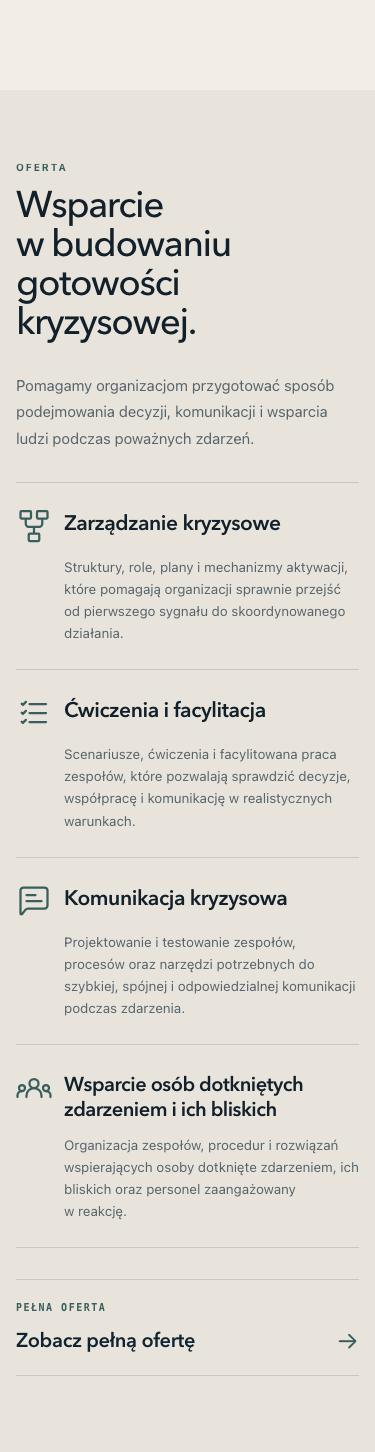
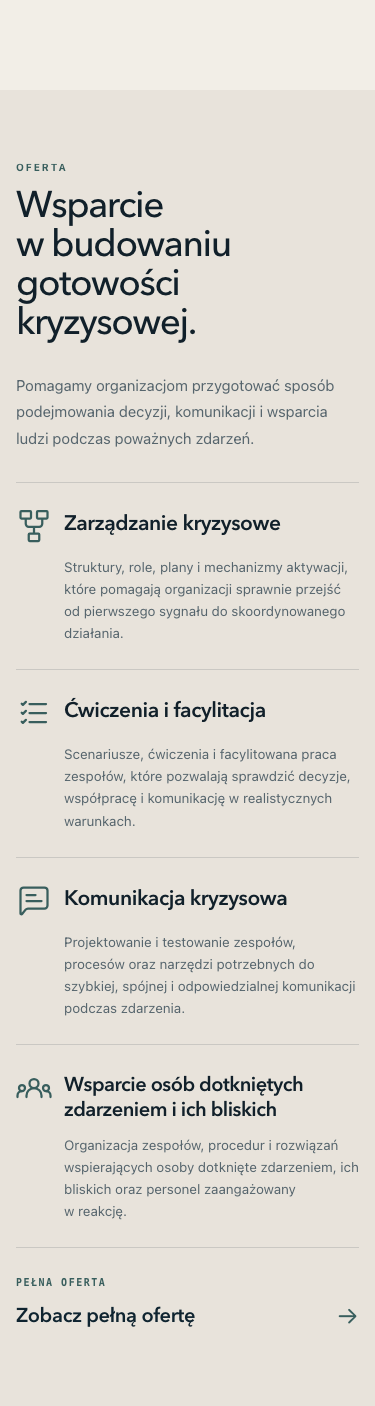
fix: refine homepage offer alignment and CTA spacing

diff --git a/src/styles/global.css b/src/styles/global.css
@@ -742,16 +742,20 @@ summary:focus-visible {
 /* Homepage — services */
 
 .services-section {
-  padding: 95px 0 105px;
+  padding: 95px 0 80px;
   background: var(--paper-2);
 }
 
 .services-heading {
   display: grid;
-  grid-template-columns: 1fr 1fr;
+  grid-template-columns: 48px minmax(260px, 1.05fr) minmax(280px, 1fr);
   align-items: end;
-  gap: 72px;
+  gap: 18px;
   margin-bottom: 43px;
+}
+
+.services-heading > div {
+  grid-column: 1 / 3;
 }
 
 .services-heading h2 {
@@ -762,6 +766,7 @@ summary:focus-visible {
 }
 
 .services-heading > p {
+  grid-column: 3;
   max-width: 590px;
   color: var(--text-secondary-paper-alt);
   font-size: 15px;
@@ -805,14 +810,10 @@ summary:focus-visible {
 
 .services-cta-rail {
   display: grid;
-  grid-template-columns: 145px 1fr auto;
+  grid-template-columns: 48px minmax(0, 1fr) auto;
   align-items: center;
-  gap: 28px;
-  margin-top: 38px;
-  padding: 24px 0 25px;
-  border-top: 1px solid var(--line);
-  border-bottom: 1px solid var(--line);
-  transition: border-color 180ms ease;
+  gap: 18px;
+  padding: 29px 0 4px;
 }
 
 .services-cta-label {
@@ -840,10 +841,6 @@ summary:focus-visible {
   font-size: 25px;
   line-height: 1;
   transition: transform 180ms ease;
-}
-
-.services-cta-rail:hover {
-  border-color: var(--line-interactive);
 }
 
 .services-cta-rail:hover .services-cta-text {
@@ -2930,6 +2927,10 @@ summary:focus-visible {
     gap: 42px;
   }
 
+  .services-heading {
+    column-gap: 18px;
+  }
+
   .principle-list {
     grid-template-columns: 1fr;
   }
@@ -3254,7 +3255,13 @@ summary:focus-visible {
   }
 
   .services-heading {
+    column-gap: 30px;
     margin-bottom: 31px;
+  }
+
+  .services-heading > div,
+  .services-heading > p {
+    grid-column: auto;
   }
 
   .service-list > li {
@@ -3277,8 +3284,7 @@ summary:focus-visible {
       "text arrow";
     grid-template-columns: minmax(0, 1fr) auto;
     gap: 13px 18px;
-    margin-top: 31px;
-    padding: 20px 0 22px;
+    padding: 27px 0 2px;
   }
 
   .services-cta-label {
